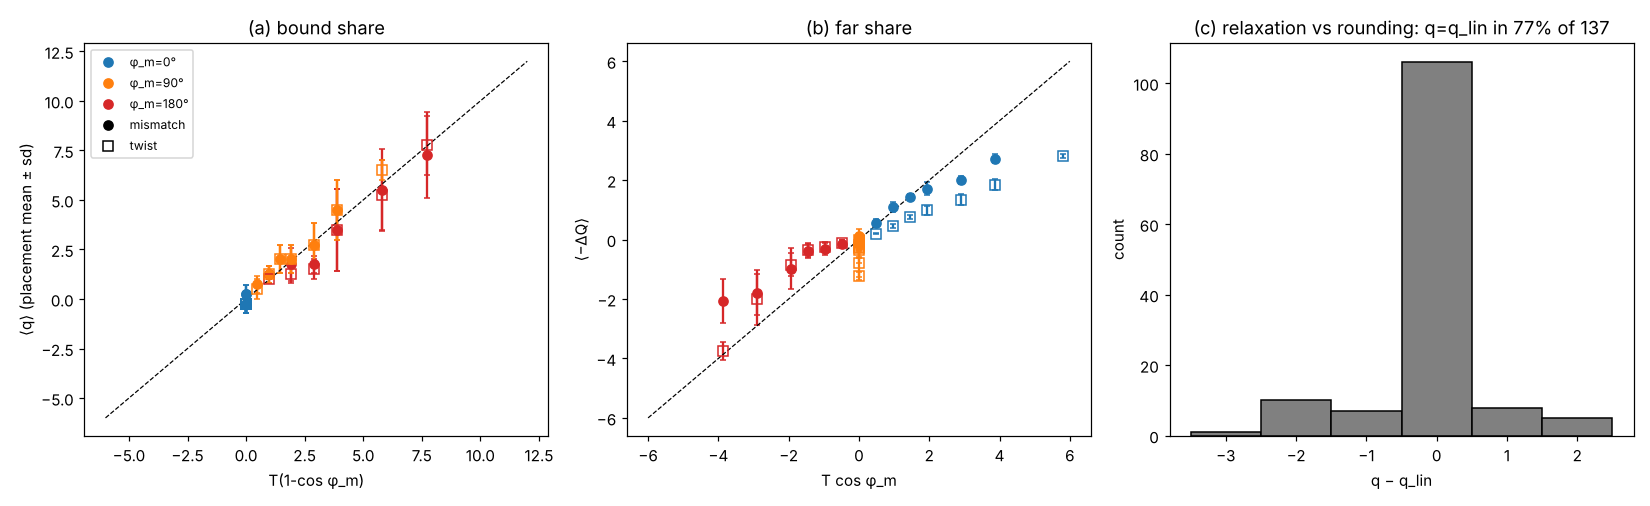
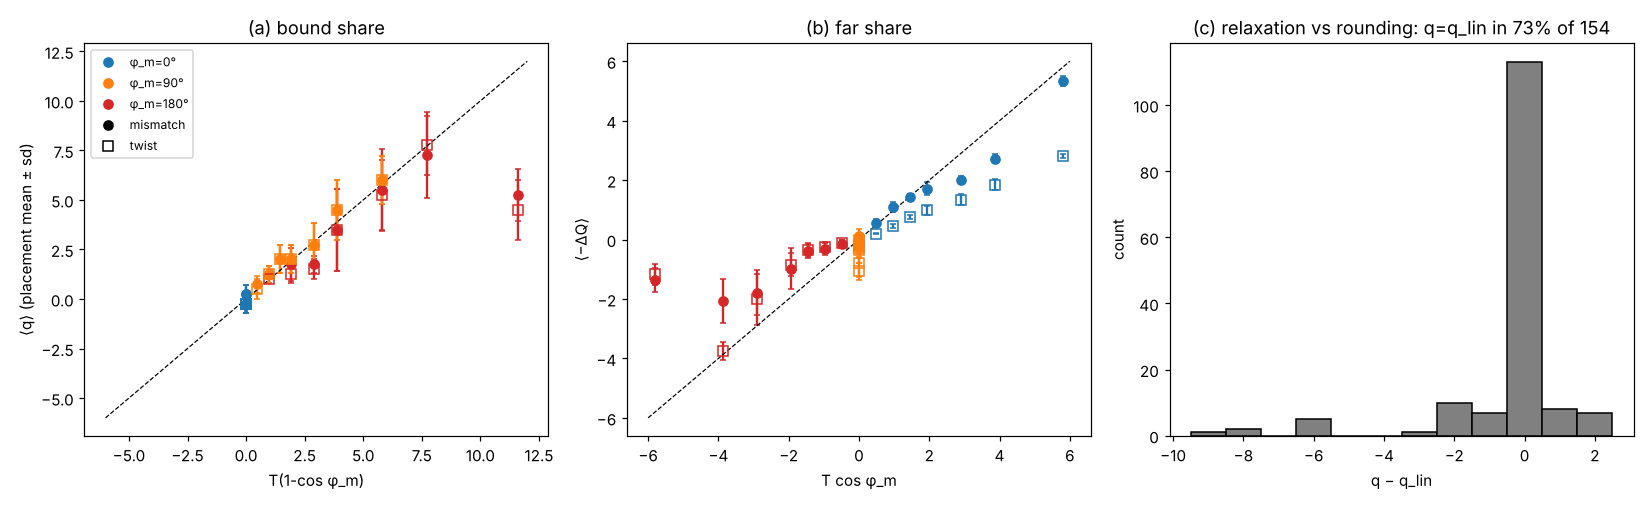
P1 results: |C| scan of the partition theorem (350 runs, 4 placements, 2 initial states)
<q> follows T(1-cos phi_m) up to T~4; at T=5.8, phi_m=180 binds only 39-45% of the
prediction in both backgrounds; q=q_lin in 73%; twist phi_m=0 far share is 0.48 T for
all |C|; phi_m=-90 and fixed-r_h checks agree; Gauss residual 0 for all runs.

Claude-Session: https://claude.ai/code/session_01FZuPgELZ6GG2gbf2cRuKyT

diff --git a/pair/pscan_summary.md b/pair/pscan_summary.md
@@ -18,6 +18,9 @@
 | mismatch | 16 | 3.87 | 0 | 4 | -0.25 ± 0.43 | 0.00 | 0.00 | +2.73 ± 0.14 | +3.87 | AA:-1 AB:0 SP:0 GEN:0 |
 | mismatch | 16 | 3.87 | 90 | 4 | 4.50 ± 1.50 | 3.87 | 4.50 | -0.17 ± 0.24 | +0.00 | AA:7 AB:3 SP:4 GEN:4 |
 | mismatch | 16 | 3.87 | 180 | 4 | 7.25 ± 2.17 | 7.74 | 7.25 | -2.06 ± 0.74 | -3.87 | AA:7 AB:4 SP:10 GEN:8 |
+| mismatch | 24 | 5.80 | 0 | 4 | -0.25 ± 0.43 | 0.00 | 0.00 | +5.35 ± 0.17 | +5.80 | AA:-1 AB:0 SP:0 GEN:0 |
+| mismatch | 24 | 5.80 | 90 | 4 | 6.00 ± 1.22 | 5.80 | 5.50 | -0.24 ± 0.24 | +0.00 | AA:7 AB:6 SP:4 GEN:7 |
+| mismatch | 24 | 5.80 | 180 | 4 | 5.25 ± 1.30 | 11.61 | 11.75 | -1.36 ± 0.41 | -5.80 | AA:7 AB:6 SP:4 GEN:4 |
 | twist | 2 | 0.48 | 0 | 4 | -0.25 ± 0.43 | 0.00 | 0.00 | +0.20 ± 0.02 | +0.48 | AA:-1 AB:0 SP:0 GEN:0 |
 | twist | 2 | 0.48 | 90 | 4 | 0.50 ± 0.50 | 0.48 | 0.25 | +0.00 ± 0.07 | +0.00 | AA:1 AB:0 SP:0 GEN:1 |
 | twist | 2 | 0.48 | 180 | 4 | 1.00 ± 0.00 | 0.97 | 1.00 | -0.10 ± 0.08 | -0.48 | AA:1 AB:1 SP:1 GEN:1 |
@@ -37,4 +40,5 @@
 | twist | 16 | 3.87 | 90 | 4 | 4.50 ± 1.50 | 3.87 | 4.50 | -0.80 ± 0.46 | +0.00 | AA:7 AB:3 SP:4 GEN:4 |
 | twist | 16 | 3.87 | 180 | 4 | 7.75 ± 1.48 | 7.74 | 7.25 | -3.75 ± 0.30 | -3.87 | AA:7 AB:6 SP:10 GEN:8 |
 | twist | 24 | 5.80 | 0 | 4 | -0.25 ± 0.43 | 0.00 | 0.00 | +2.81 ± 0.07 | +5.80 | AA:-1 AB:0 SP:0 GEN:0 |
-| twist | 24 | 5.80 | 90 | 2 | 6.50 ± 0.50 | 5.80 | 6.50 | -1.23 ± 0.12 | +0.00 | AA:7 AB:6 |
+| twist | 24 | 5.80 | 90 | 4 | 6.00 ± 1.22 | 5.80 | 5.50 | -1.07 ± 0.29 | +0.00 | AA:7 AB:6 SP:4 GEN:7 |
+| twist | 24 | 5.80 | 180 | 4 | 4.50 ± 1.50 | 11.61 | 11.75 | -1.17 ± 0.36 | -5.80 | AA:7 AB:4 SP:4 GEN:3 |
